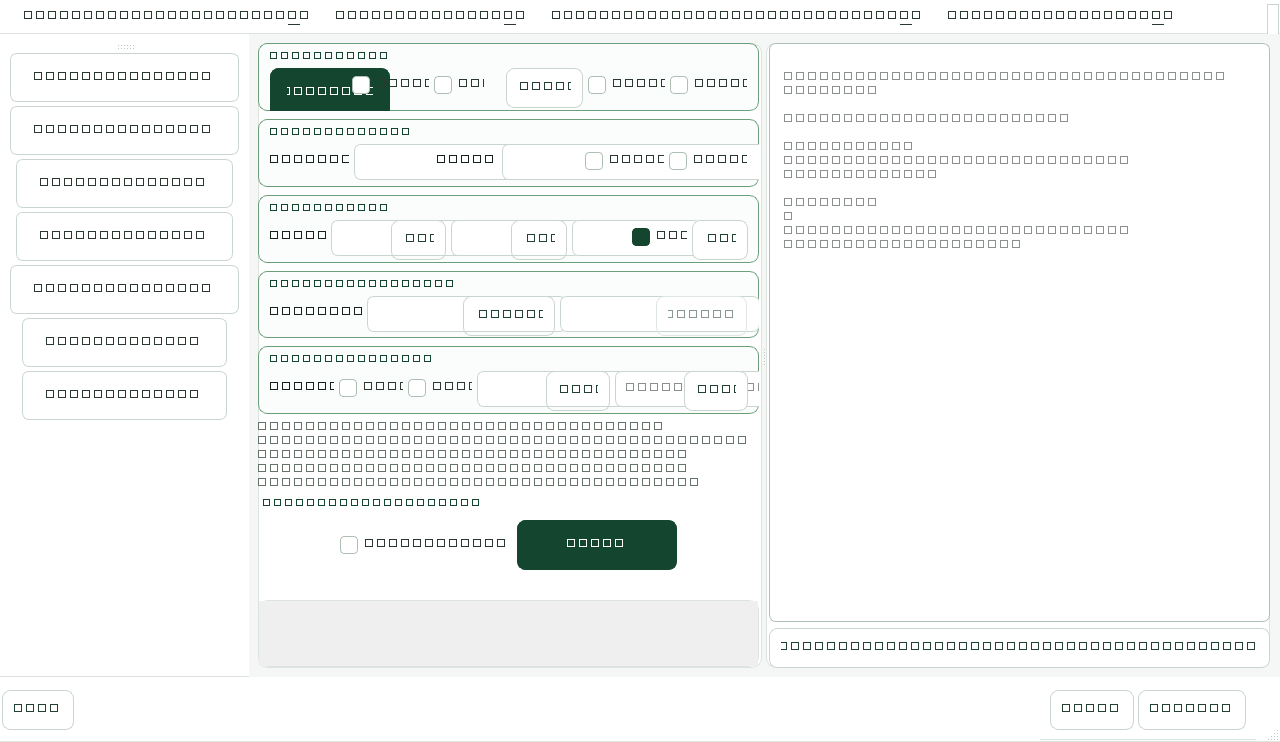
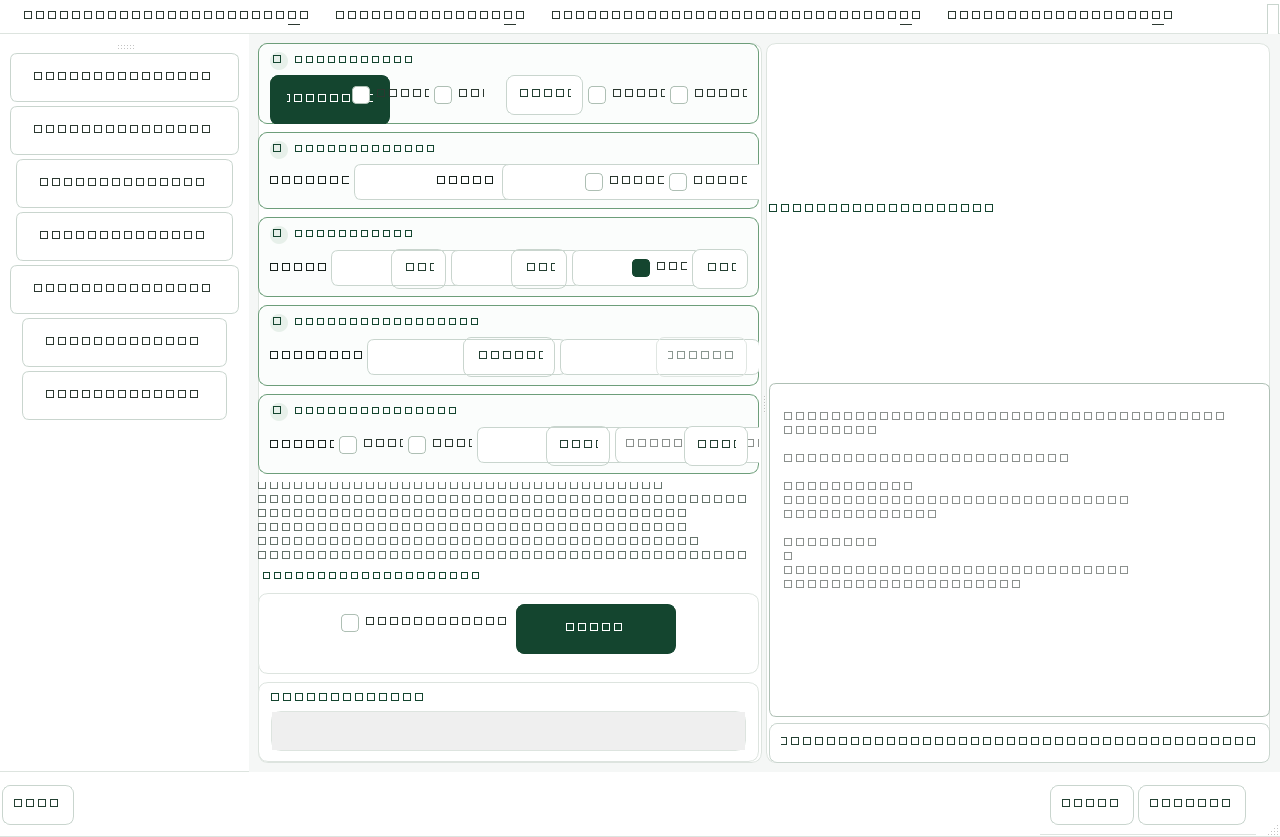
feat(ui): clarify workflow action areas

diff --git a/videotrans/ui/en.py b/videotrans/ui/en.py
@@ -46,27 +46,27 @@ class Ui_MainWindow(object):
         self.verticalLayout_3.setSpacing(8)
 
         self.prepareSection, prepare_layout = self._create_workflow_section(
-            "workflowPrepare", "Preparation")
+            "workflowPrepare", 1, "Preparation")
         prepare_layout.addLayout(_create_file_row(self, self.prepareSection))
         self.verticalLayout_3.addWidget(self.prepareSection)
 
         self.transcriptionSection, transcription_layout = self._create_workflow_section(
-            "workflowTranscription", "Transcription")
+            "workflowTranscription", 2, "Transcription")
         transcription_layout.addLayout(_create_asr_row(self, self.transcriptionSection))
         self.verticalLayout_3.addWidget(self.transcriptionSection)
 
         self.translationSection, translation_layout = self._create_workflow_section(
-            "workflowTranslation", "Translation")
+            "workflowTranslation", 3, "Translation")
         translation_layout.addLayout(_create_translation_row(self, self.translationSection))
         self.verticalLayout_3.addWidget(self.translationSection)
 
         self.voiceSection, voice_layout = self._create_workflow_section(
-            "workflowVoice", "Voice & subtitles")
+            "workflowVoice", 4, "Voice & subtitles")
         voice_layout.addLayout(_create_tts_row(self, self.voiceSection))
         self.verticalLayout_3.addWidget(self.voiceSection)
 
         self.outputSection, output_layout = self._create_workflow_section(
-            "workflowOutput", "Timing & output")
+            "workflowOutput", 5, "Timing & output")
         output_layout.addLayout(_create_alignment_row(self, self.outputSection))
         self.verticalLayout_3.addWidget(self.outputSection)
 
@@ -209,6 +209,12 @@ class Ui_MainWindow(object):
         self.verticalLayout_3.addWidget(self.show_tips)
         self.verticalLayout_3.addWidget(self.workflowStatus)
 
+        self.workflowActionArea = QtWidgets.QFrame(self.layoutWidget)
+        self.workflowActionArea.setObjectName("workflowActionArea")
+        self.workflowActionLayout = QtWidgets.QVBoxLayout(self.workflowActionArea)
+        self.workflowActionLayout.setContentsMargins(12, 10, 12, 10)
+        self.workflowActionLayout.setSpacing(6)
+
         self.horizontalLayout_3 = QtWidgets.QHBoxLayout()
         self.horizontalLayout_3.setObjectName("horizontalLayout_3")
 
@@ -231,10 +237,20 @@ class Ui_MainWindow(object):
         self.horizontalLayout_3.addWidget(self.startbtn)
         self.horizontalLayout_3.addWidget(self.retrybtn)
         self.horizontalLayout_3.addStretch(1)
-        self.verticalLayout_3.addLayout(self.horizontalLayout_3)
-        self.verticalLayout_3.addWidget(self.output_dir)
+        self.workflowActionLayout.addLayout(self.horizontalLayout_3)
+        self.workflowActionLayout.addWidget(self.output_dir)
+        self.verticalLayout_3.addWidget(self.workflowActionArea)
 
-        self.scroll_area = QtWidgets.QScrollArea(self.layoutWidget)
+        self.workflowActivityArea = QtWidgets.QFrame(self.layoutWidget)
+        self.workflowActivityArea.setObjectName("workflowActivityArea")
+        self.workflowActivityLayout = QtWidgets.QVBoxLayout(self.workflowActivityArea)
+        self.workflowActivityLayout.setContentsMargins(12, 10, 12, 10)
+        self.workflowActivityLayout.setSpacing(6)
+        self.workflowActivityTitle = QtWidgets.QLabel(tr("Task activity"), self.workflowActivityArea)
+        self.workflowActivityTitle.setObjectName("workflowActivityTitle")
+        self.workflowActivityLayout.addWidget(self.workflowActivityTitle)
+
+        self.scroll_area = QtWidgets.QScrollArea(self.workflowActivityArea)
         self.scroll_area.setWidgetResizable(True)
         self.scroll_area.setObjectName("scroll_area")
         self.scrollAreaWidgetContents = QtWidgets.QWidget()
@@ -248,13 +264,18 @@ class Ui_MainWindow(object):
         self.processlayout = QtWidgets.QVBoxLayout(viewport)
         self.processlayout.setAlignment(QtCore.Qt.AlignmentFlag.AlignTop)
 
-        self.verticalLayout_3.addWidget(self.scroll_area)
+        self.workflowActivityLayout.addWidget(self.scroll_area)
+        self.verticalLayout_3.addWidget(self.workflowActivityArea)
         self.verticalLayoutWidget = QtWidgets.QWidget(self.splitter)
         self.verticalLayoutWidget.setObjectName("verticalLayoutWidget")
 
         self.subtitle_layout = QtWidgets.QVBoxLayout(self.verticalLayoutWidget)
         self.subtitle_layout.setContentsMargins(3, 0, 0, 0)
         self.subtitle_layout.setObjectName("subtitle_layout")
+
+        self.subtitlePanelTitle = QtWidgets.QLabel(tr("Subtitles & preview"), self.verticalLayoutWidget)
+        self.subtitlePanelTitle.setObjectName("subtitlePanelTitle")
+        self.subtitle_layout.addWidget(self.subtitlePanelTitle)
 
         self.subtitle_area = QPlainTextEdit()
         self.subtitle_area.setReadOnly(True)
@@ -285,16 +306,24 @@ class Ui_MainWindow(object):
 
         self._set_Ui_Text()
 
-    def _create_workflow_section(self, object_name, title):
+    def _create_workflow_section(self, object_name, step, title):
         section = QtWidgets.QFrame(self.layoutWidget)
         section.setObjectName(object_name)
         section.setProperty("workflowSection", True)
         layout = QtWidgets.QVBoxLayout(section)
         layout.setContentsMargins(11, 8, 11, 8)
         layout.setSpacing(5)
+        heading_layout = QtWidgets.QHBoxLayout()
+        heading_layout.setSpacing(7)
+        badge = QtWidgets.QLabel(str(step), section)
+        badge.setObjectName("workflowStepBadge")
+        badge.setAlignment(Qt.AlignmentFlag.AlignCenter)
+        heading_layout.addWidget(badge)
         heading = QtWidgets.QLabel(tr(title), section)
         heading.setObjectName("workflowSectionTitle")
-        layout.addWidget(heading)
+        heading_layout.addWidget(heading)
+        heading_layout.addStretch()
+        layout.addLayout(heading_layout)
         return section, layout
 
     def set_workflow_view_state(self, state):

diff --git a/tests/test_ui_en_split.py b/tests/test_ui_en_split.py
@@ -87,3 +87,20 @@ def test_workflow_view_state_updates_existing_cards_without_replacing_controls()
         assert section.property("workflowState") == WORKFLOW_RUNNING
     assert win.btn_get_video.parentWidget() is win.prepareSection
     assert win.recogn_type.parentWidget() is win.transcriptionSection
+
+
+def test_workflow_hierarchy_groups_existing_action_activity_and_subtitle_widgets():
+    win = _TestWindow()
+
+    assert win.workflowActionArea.objectName() == "workflowActionArea"
+    assert win.startbtn.parentWidget() is win.workflowActionArea
+    assert win.retrybtn.parentWidget() is win.workflowActionArea
+    assert win.output_dir.parentWidget() is win.workflowActionArea
+    assert win.workflowActivityArea.objectName() == "workflowActivityArea"
+    assert win.scroll_area.parentWidget() is win.workflowActivityArea
+    assert win.subtitlePanelTitle.parentWidget() is win.verticalLayoutWidget
+    assert win.subtitle_area.parentWidget() is win.verticalLayoutWidget
+    assert win.import_subtitle.parentWidget() is win.verticalLayoutWidget
+
+    badges = win.findChildren(type(win.workflowActivityTitle), "workflowStepBadge")
+    assert [badge.text() for badge in badges] == ["1", "2", "3", "4", "5"]

diff --git a/scripts/smoke_frozen_ui.py b/scripts/smoke_frozen_ui.py
@@ -73,6 +73,11 @@ def run_check():
             or window.tts_type.parentWidget() is not window.voiceSection
             or window.subtitle_type.parentWidget() is not window.outputSection):
         raise AssertionError('packaged workflow controls are not in their intended sections')
+    if (window.startbtn.parentWidget() is not window.workflowActionArea
+            or window.retrybtn.parentWidget() is not window.workflowActionArea
+            or window.scroll_area.parentWidget() is not window.workflowActivityArea
+            or window.subtitle_area.parentWidget() is not window.verticalLayoutWidget):
+        raise AssertionError('packaged workspace hierarchy did not retain existing controls')
     window.set_workflow_view_state('running')
     if (window.workflowStatus.property('workflowState') != 'running'
             or any(section.property('workflowState') != 'running' for section in workflow_sections)):
@@ -86,6 +91,7 @@ def run_check():
         'light_style': resource_path('videotrans', 'styles', 'light.qss').is_file(),
         'workflow_sections': len(workflow_sections),
         'workflow_state': 'running',
+        'workflow_hierarchy': True,
     }
 
 

diff --git a/tests/test_light_workspace.py b/tests/test_light_workspace.py
@@ -59,6 +59,10 @@ def test_light_qss_has_approved_tokens_and_primary_control_rules():
     assert 'QFrame[workflowSection="true"]' in qss
     assert 'QFrame[workflowSection="true"][workflowState="running"]' in qss
     assert 'QLabel#workflowStatus[workflowState="error"]' in qss
+    assert "QFrame#workflowActionArea" in qss
+    assert "QFrame#workflowActivityArea" in qss
+    assert "QLabel#workflowStepBadge" in qss
+    assert "QLabel#subtitlePanelTitle" in qss
 
 
 def test_workspace_shell_accepts_generated_menu_bar_attribute():

diff --git a/CHANGELOG.md b/CHANGELOG.md
@@ -2,6 +2,8 @@
 
 ## Unreleased
 
+- The desktop workflow now numbers its five existing steps and separates the existing Start/Retry, task activity, and subtitle-preview areas for faster scanning. No processing controls or behavior changed.
+
 - Workflow cards now show a localized ready, processing, attention, or complete state from existing task events. The new presentation bridge does not alter queues, media processing, saved settings, output paths, dialogs, or CLI behavior.
 
[1 lines of base64/hex data omitted]
